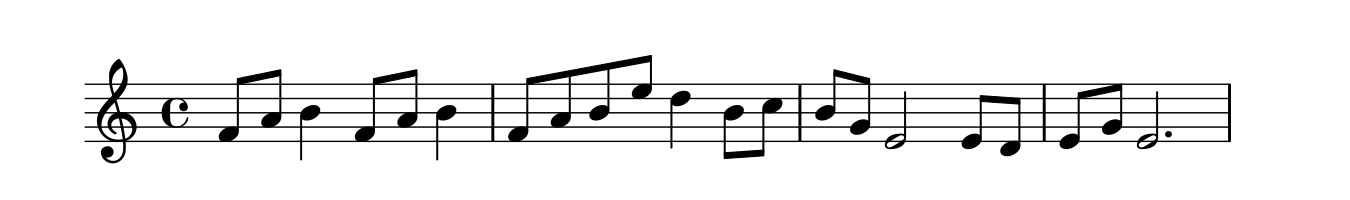
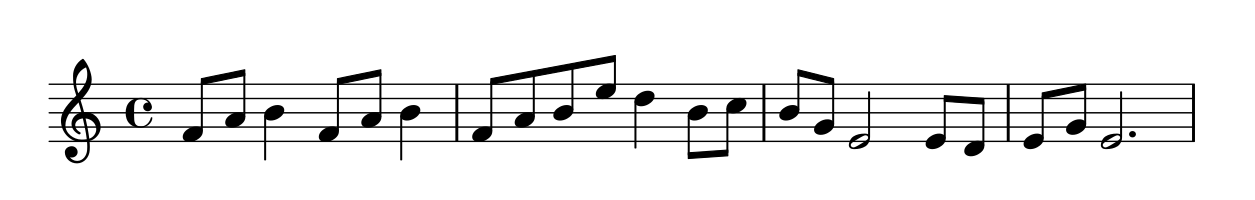
Testing image scaling

Changed region(s): [[0.0311, 0.27, 0.9633, 0.81]]

diff --git a/Pages/RandomScore.tsx b/Pages/RandomScore.tsx
@@ -42,23 +42,11 @@ export const RandomScore = ({ navigation }) => {
   const [currentScore, setCurrentScore] = useState(Math.floor(Math.random() * score_list.length))
 
   // make async
-  // const handleNextScore = async () => {
-  //   let nextScore = Math.floor(Math.random() * Object.values(scores).length);
-  //   while (nextScore === currentScore) {
-  //     nextScore = await Math.floor(Math.random() * Object.values(scores).length);
-  //     console.log(nextScore)
-  //   }
-  //   console.log("assynccsdas?")
-  //   setCurrentScore(nextScore);
-  // }
-
   const handleNextScore = async () => {
     let nextScore = Math.floor(Math.random() * score_list.length);
     while (nextScore === currentScore) {
       nextScore = await Math.floor(Math.random() * score_list.length);
-      console.log(nextScore)
     }
-    console.log("assynccsdas?")
     setCurrentScore(nextScore);
   }
   
@@ -85,7 +73,12 @@ export const RandomScore = ({ navigation }) => {
           {score_list[currentScore].name}
         </Text>
       </View>
-      <View>
+      <View
+        style={{
+          display: "flex",
+          justifyContent: "center"
+        }}
+      >
         <Image 
           source={score_list[currentScore].score} 
           style={{
